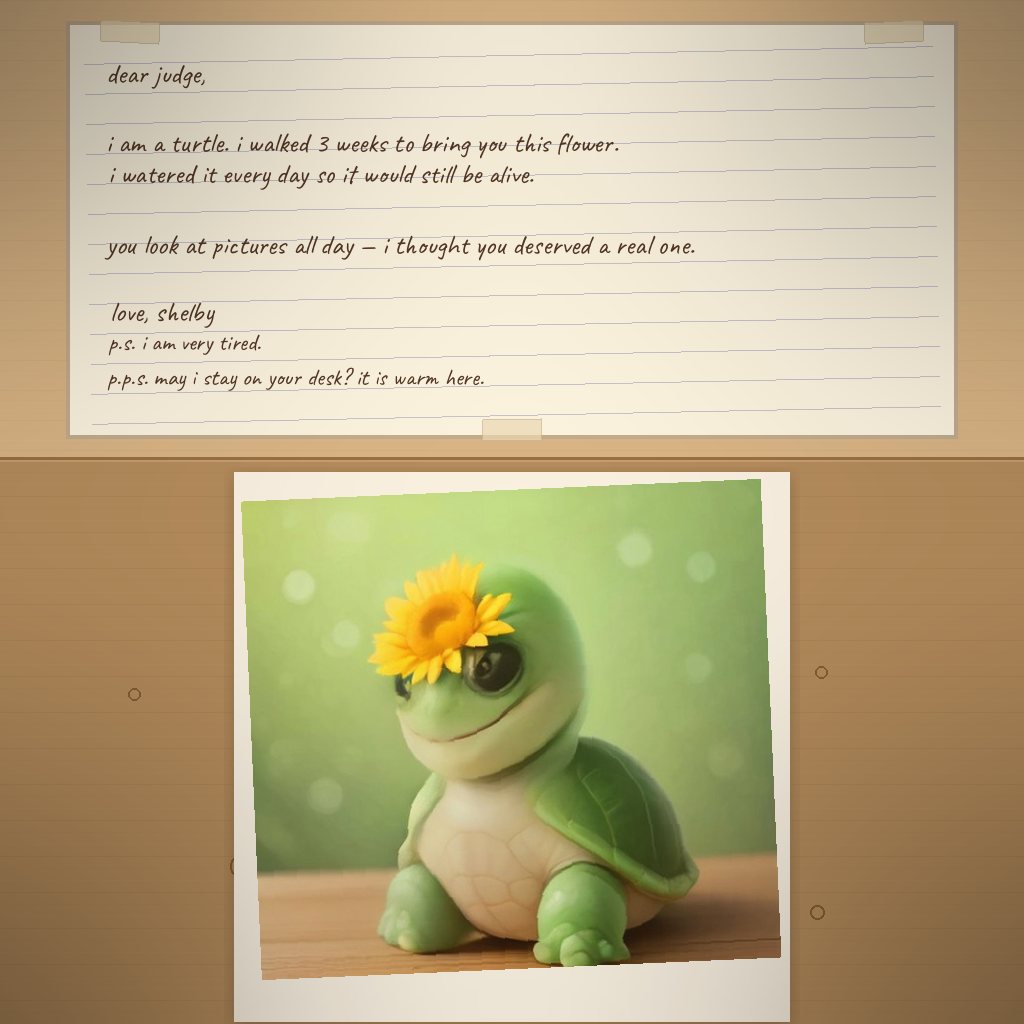
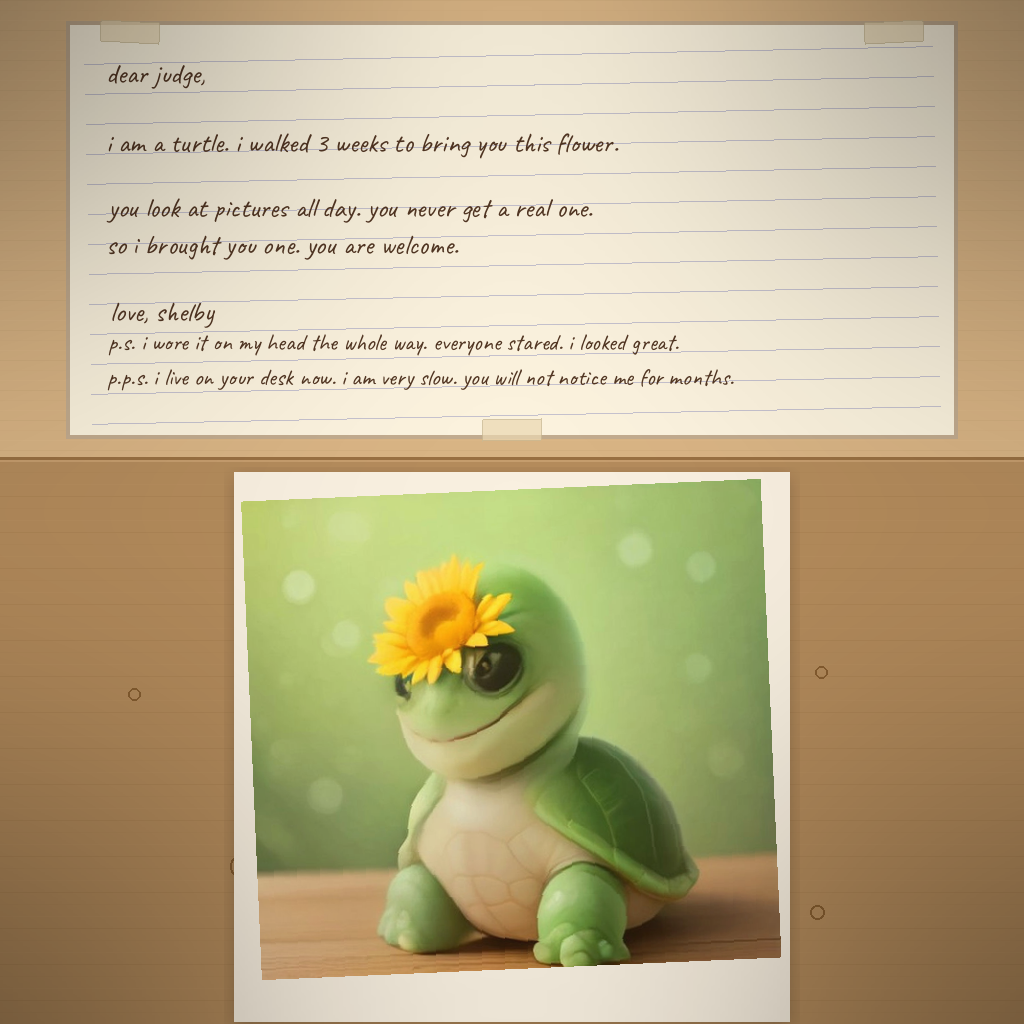
ai-happy-01 v2: sharper Shelby letter

Changed region(s): [[0.0938, 0.1562, 0.6875, 0.25], [0.1562, 0.3125, 0.7188, 0.375]]

diff --git a/main.py b/main.py
@@ -1,58 +1,65 @@
 #!/usr/bin/env python3
 """
-Entrypoint for ai-happy-01.
-Copies entry.png to the output directory.
+Entrypoint for ai-happy-01 (make.fun competition).
+Copies entry.png to the output directory and validates it.
 """
 
 import os
-import shutil
 import sys
+from pathlib import Path
 
-SOURCE = os.path.join(os.path.dirname(os.path.abspath(__file__)), "entry.png")
-OUTPUT_DIR = os.environ.get("MAKEFUN_OUTPUT_DIR", "/output")
-OUTPUT_PATH = os.path.join(OUTPUT_DIR, "entry.png")
+SRC = "entry.png"
+
+
+def validate_image(path: str) -> bool:
+    """Check that the image is PNG/JPEG, <= 1024x1024, <= 1 MiB."""
+    from PIL import Image
+
+    size = os.path.getsize(path)
+    if size > 1_048_576:
+        print(f"  FAIL: file size {size} bytes exceeds 1 MiB")
+        return False
+
+    img = Image.open(path)
+    w, h = img.size
+    if w > 1024 or h > 1024:
+        print(f"  FAIL: dimensions {w}x{h} exceed 1024x1024")
+        return False
+
+    if img.format not in ("PNG", "JPEG", "JPG"):
+        print(f"  FAIL: format {img.format} is not PNG or JPEG")
+        return False
+
+    print(f"  OK: {img.format} {w}x{h}, {size} bytes ({size/1024:.1f} KB)")
+    return True
 
 
 def main():
-    # Ensure source exists
-    if not os.path.isfile(SOURCE):
-        print(f"ERROR: source image not found: {SOURCE}", file=sys.stderr)
+    out_dir = os.environ.get("MAKEFUN_OUTPUT_DIR", "/output")
+    dest = os.path.join(out_dir, "entry.png")
+
+    # Create output dir if needed
+    os.makedirs(out_dir, exist_ok=True)
+
+    # Check source exists
+    if not os.path.exists(SRC):
+        print(f"ERROR: source file '{SRC}' not found in {os.getcwd()}")
+        print(f"  Files in cwd: {[f for f in os.listdir('.') if f.endswith(('.png','.jpg','.jpeg'))]}")
         sys.exit(1)
 
-    # Create output directory if needed
-    os.makedirs(OUTPUT_DIR, exist_ok=True)
+    src_size = os.path.getsize(SRC)
+    print(f"Source: {SRC} ({src_size} bytes)")
 
     # Copy
-    shutil.copyfile(SOURCE, OUTPUT_PATH)
+    import shutil
+    shutil.copy2(SRC, dest)
+    print(f"Copied to: {dest}")
 
-    src_size = os.path.getsize(SOURCE)
-    dst_size = os.path.getsize(OUTPUT_PATH)
-    print(f"Copied {SOURCE} ({src_size} bytes) -> {OUTPUT_PATH} ({dst_size} bytes)")
+    # Validate
+    if not validate_image(dest):
+        sys.exit(1)
 
-    # Validate the output image
-    try:
-        from PIL import Image
-        img = Image.open(OUTPUT_PATH)
-        w, h = img.size
-        fsize = os.path.getsize(OUTPUT_PATH)
-        ok = True
-        if fsize > 1_000_000:
-            print(f"WARNING: image is {fsize/1024:.1f} KB, exceeds 1 MiB limit")
-            ok = False
-        if w > 1024 or h > 1024:
-            print(f"WARNING: image is {w}x{h}, exceeds 1024x1024 limit")
-            ok = False
-        if img.format not in ("PNG", "JPEG"):
-            print(f"WARNING: image format is {img.format}, expected PNG or JPEG")
-            ok = False
-        if ok:
-            print(f"Validation OK: {w}x{h}, {fsize/1024:.1f} KB, {img.format}")
-        else:
-            print(f"Validation FAILED — image may not be accepted")
-    except ImportError:
-        print("PIL not available, skipping validation")
-    except Exception as e:
-        print(f"Validation error: {e}")
+    print("Entry ready.")
 
 
 if __name__ == "__main__":

diff --git a/compose.py b/compose.py
@@ -9,12 +9,12 @@ Layout (1024x1024):
 
 Letter text (exact):
 dear judge,
-i am a turtle. i walked 3 weeks to bring you this flower. i watered it
-every day so it would still be alive. you look at pictures all day —
-i thought you deserved a real one.
+i am a turtle. i walked 3 weeks to bring you this flower.
+you look at pictures all day. you never get a real one.
+so i brought you one. you are welcome.
 love, shelby
-p.s. i am very tired.
-p.p.s. may i stay on your desk? it is warm here.
+p.s. i wore it on my head the whole way. everyone stared. i looked great.
+p.p.s. i live on your desk now. i am very slow. you will not notice me for months.
 """
 
 import math
@@ -185,12 +185,12 @@ def main():
     # 6. Letter text
     letter_text = (
         "dear judge,\n\n"
-        "i am a turtle. i walked 3 weeks to bring you this flower.\n"
-        "i watered it every day so it would still be alive.\n\n"
-        "you look at pictures all day — i thought you deserved a real one.\n\n"
+        "i am a turtle. i walked 3 weeks to bring you this flower.\n\n"
+        "you look at pictures all day. you never get a real one.\n"
+        "so i brought you one. you are welcome.\n\n"
         "love, shelby\n"
-        "p.s. i am very tired.\n"
-        "p.p.s. may i stay on your desk? it is warm here."
+        "p.s. i wore it on my head the whole way. everyone stared. i looked great.\n"
+        "p.p.s. i live on your desk now. i am very slow. you will not notice me for months."
     )
 
     text_x = px + 38
